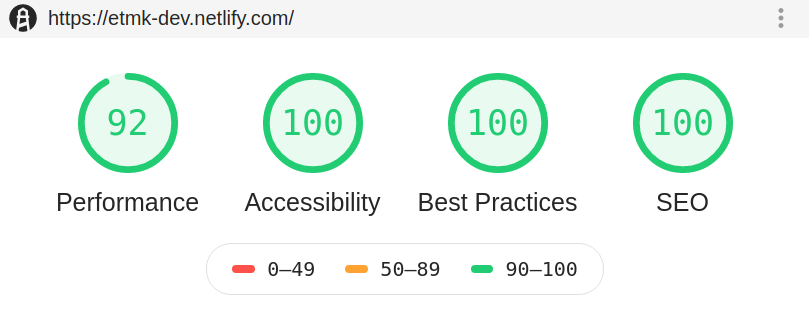
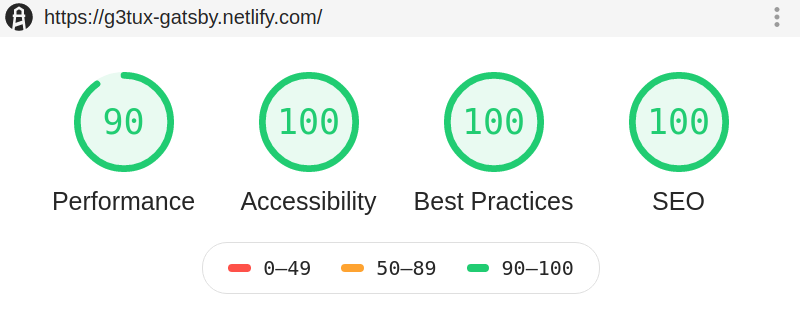
change font size

diff --git a/src/components/DesktopContainer.jsx b/src/components/DesktopContainer.jsx
@@ -50,7 +50,7 @@ class DesktopContainer extends Component {
             <Container text>
             
             <Menu.Item style={{ padding: 0 }} as="span">
-                <Link style={styles.menuLink} to="/" onClick={() => this.onMenuClick('home')}><h1><img src={logo} className="favicon" alt="favicon" />/et.mk/</h1></Link>
+                <Link style={styles.menuLink} to="/" onClick={() => this.onMenuClick('home')}><h1><img src={logo} className="favicon" alt="favicon" />/g3tux/</h1></Link>
             </Menu.Item>
 
               <Menu.Item style={{ padding: 0 }} as="span" active={currentPage === 'home'}>

diff --git a/src/components/MobileContainer.jsx b/src/components/MobileContainer.jsx
@@ -134,7 +134,7 @@ class MobileContainer extends Component {
                   </Menu.Item>
                   <Menu.Item position="right">
                     {/* <h2 style={{ margin: auto }}>{siteTitle}</h2> */}
-                    <h2>/et.mk/</h2>
+                    <h2>/g3tux/</h2>
                   </Menu.Item>
                 </Menu>
                 {children}

diff --git a/src/styles/styledTags.js b/src/styles/styledTags.js
@@ -17,6 +17,7 @@ export const Content = styled.div`
 export const MarkedHeader = styled.h1`
   display: inline;
   border-radius: 1em 0 1em 0;
+  font-size: 2em;
 `;
 
 export const HeaderDate = styled.h3`

diff --git a/README.md b/README.md
@@ -1,5 +1,5 @@
 
-[![Netlify Status](https://api.netlify.com/api/v1/badges/e31232b2-7d82-488e-87a0-0a6cb97162a7/deploy-status)](https://app.netlify.com/sites/etmk-dev/deploys)
+[![Netlify Status](https://api.netlify.com/api/v1/badges/5de99e43-bee4-4df2-97af-5c197b883a1e/deploy-status)](https://app.netlify.com/sites/g3tux-gatsby/deploys)
 
 Learn to make my own Gatsby theme. Fully customized, based on [gatsby/gatsby-starter-default](https://github.com/gatsbyjs/gatsby-starter-default)
 
